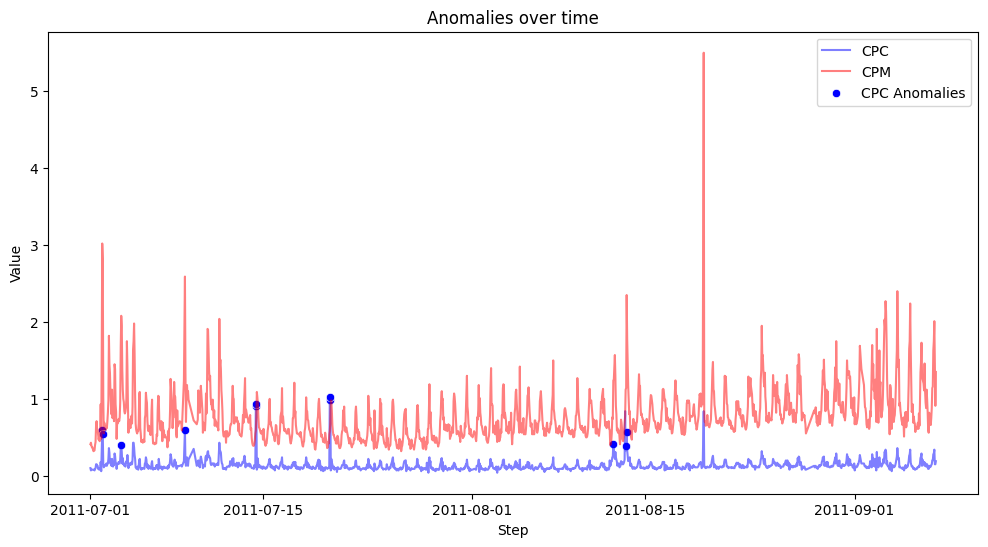
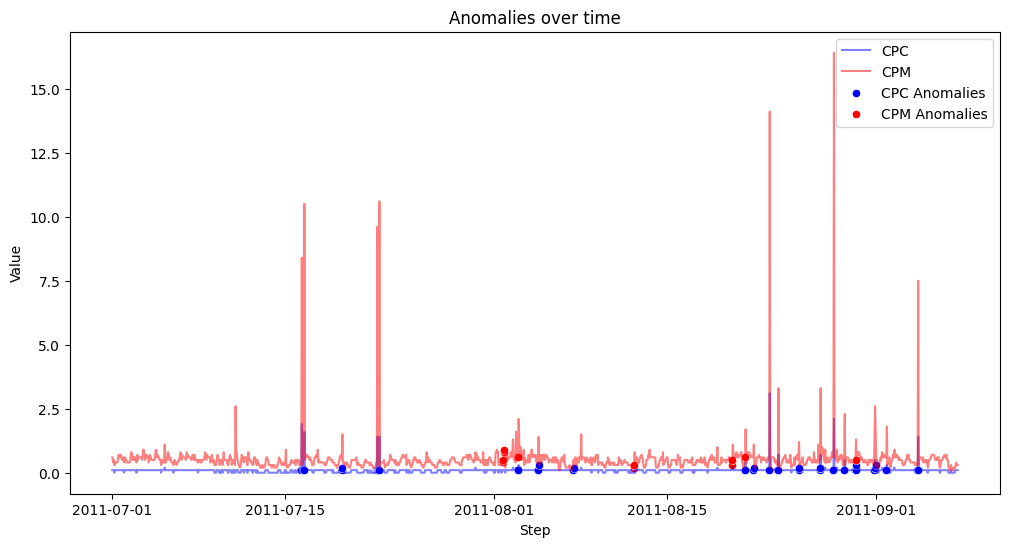
[update] first-order markov chain with plot in readme

diff --git a/anomaly-detection-markov/Scripts/markov-chain-ad-data.py b/anomaly-detection-markov/Scripts/markov-chain-ad-data.py
@@ -1,3 +1,4 @@
+## This script implements a Markov Chain model to detect anomalies in CPC and CPM data from ad exchanges.
 import pandas as pd
 import numpy as np
 from collections import defaultdict
@@ -5,9 +6,8 @@ from itertools import pairwise
 import matplotlib.pyplot as plt
 import seaborn as sns
 
-
+# pre-processes two CSV files containing timestamped data for compatibility with markov models.
 def df_preprocessing(path_a, path_b, quantize: bool = False):
-    #read the dataframes
     dfa = pd.read_csv(path_a)
     dfb = pd.read_csv(path_b)
     
@@ -23,12 +23,12 @@ def df_preprocessing(path_a, path_b, quantize: bool = False):
     df['step'] = (df['timestamp'] - df['timestamp'].min()).dt.total_seconds() / 3600
     if quantize:
         # Quantize the 'cpc' and 'cpm' columns to 3 decimal places
-        df['cpc'] = df['cpc'].round(2)
-        df['cpm'] = df['cpm'].round(2)
+        df['cpc'] = df['cpc'].round(1)
+        df['cpm'] = df['cpm'].round(1)
     
     return df
 
-
+# counts transitions between sequential states in a specified column of a DataFrame.
 def transition_counter(df, col: str, transition_counts = None):
     if transition_counts is None:
         transition_counts = defaultdict(lambda: defaultdict(int))
@@ -38,52 +38,69 @@ def transition_counter(df, col: str, transition_counts = None):
         if curr['step'] + 1 != next['step']:
             continue
 
-        from_state = curr[col]
-        to_state = next[col]
-        transition_counts[from_state][to_state] += 1
+        prev_state = curr[col]
+        curr_state = next[col]
+        transition_counts[prev_state][curr_state] += 1
         
     return transition_counts 
     
     
-# Convert counts to probabilities
-def estimate_markov_probs(transition_counts):
+# Convert transition counts to transition probabilities matrix.
+def transition_probs_calculator(transition_counts):
     transition_probs = defaultdict(lambda: defaultdict(float))
 
 
-    for curr_state, next_states in transition_counts.items():
+    for prev_state, next_states in transition_counts.items():
         total = sum(next_states.values())
-        for next_state, count in next_states.items():
-            transition_probs[curr_state][next_state] = count / total if total > 0 else 0
+        for curr_state, count in next_states.items():
+            transition_probs[prev_state][curr_state] = count / total if total > 0 else 0
             
     return transition_probs
 
+def markov_anomaly_scorer(df, transition_probs, col: str, window=2, epsilon=1e-10):
+    """ Scores anomalies in a DataFrame based on a Markov Chain model with context window.
 
-def df_probs(df, transition_probs, col: str, threshold=0):
+    Args:
+        df (dataframe): dataframe containing the states of a {col} to score
+        transition_probs (defaultdict): transition probabilities for the Markov Chain
+        col (str): column name to score, e.g. 'cpc' or 'cpm'
+        window (int; min:2, max:len(df)): no of states to consider anomaly scoring. Defaults to 2.
+        epsilon (float, ): Placeholder for unseen transition. Defaults to 1e-10.
+
+    Returns:
+        df: modified dataframe with scores for {col} states
+    """
     df = df.copy()
-    df['anomaly'] = False
-    
-    for (id, curr), (_, next) in pairwise(df.iterrows()):
-        if curr['step'] == next['step']:
-            df.at[id, f'{col}_anomaly'] = True
-        if curr['step'] + 1 != next['step']:
-            continue
+    df[f'{col}_score'] = 0.0
+
+    for i in range(window, df.shape[0]):
+        score = 0
         
-        prob = transition_probs[curr[col]][next[col]]
-        df.at[id, f'prob_{col}'] = prob
-        # df.at[id, f'log_prob_{col}'] = np.log(prob)
-        
-        if prob < threshold:
-            df.at[id, f'{col}_anomaly'] = True
-        
+        all_states = df.iloc[i - window:i][col].values
+        if len(all_states) < 2: continue
+        for from_state, to_state in pairwise(all_states):
+            try:
+                prob = transition_probs[from_state][to_state]
+                score += np.log(prob if prob > 0 else epsilon)
+            except KeyError as e:
+                print('error')
+                print(f"KeyError: {e} for transition {from_state} to_state {next}")
+                score += np.log(epsilon)  # assign minimal likelihood to unseen transition
+
+        ## df.iloc[i, df.columns.get_loc(f'{col}_score')] = score # deprecated
+        df.at[i-window, f'{col}_score'] = np.abs(score)
+
     return df
 
-def anomaly_detection(unknown_df, normal_df):
-    threshold_cpc = normal_df['prob_cpc'].max()
-    threshold_cpm = normal_df['prob_cpm'].max()
+
+def markov_anomaly_detector(unknown_df, normal_df, threshold_cpc=0.01, threshold_cpm=0.01):
+    ## Detects anomalies in CPC and CPM data using a Markov Chain model.
+    # threshold_cpc = normal_df['prob_cpc'].max()
+    # threshold_cpm = normal_df['prob_cpm'].max()
     
     df = unknown_df.copy()
-    df['cpc_anomaly'] = df['prob_cpc'] > threshold_cpc
-    df['cpm_anomaly'] = df['prob_cpm'] > threshold_cpm
+    df['cpc_anomaly'] = df['cpc_score'] > threshold_cpc
+    df['cpm_anomaly'] = df['cpm_score'] > threshold_cpm
     
     return df
 
@@ -93,7 +110,7 @@ def plot_anomalies(df):
     sns.lineplot(x='timestamp', y='cpm', data=df, color='red', label='CPM', alpha=0.5)
     
     sns.scatterplot(data=df[df['cpc_anomaly']], x='timestamp', y='cpc', color='blue', label='CPC Anomalies', marker='o')
-    sns.scatterplot(data=df[df['cpm_anomaly']], x='timestamp', y='cpm', color='red', label='CPM Anomalies', marker='*')
+    sns.scatterplot(data=df[df['cpm_anomaly']], x='timestamp', y='cpm', color='red', label='CPM Anomalies', marker='o')
     
     plt.title(f'Anomalies over time')
     plt.xlabel('Step')
@@ -101,13 +118,14 @@ def plot_anomalies(df):
     plt.legend()
     plt.show()
 
+
 if __name__ == "__main__": 
     
     dfs = {}
     cpc_transition_counts = defaultdict(lambda: defaultdict(int))
     cpm_transition_counts = defaultdict(lambda: defaultdict(int))
     
-    
+    ## Load and preprocess all exchange data, since in real-world, we would not know which exchange has anomalies beforehand.
     for i in range(2, 5):
         path_cpc = f'..\\Dataset\\realAdExchange\\exchange-{i}_cpc_results.csv'
         path_cpm = f'..\\Dataset\\realAdExchange\\exchange-{i}_cpm_results.csv'
@@ -116,8 +134,8 @@ if __name__ == "__main__":
         cpc_transition_counts = transition_counter(df, 'cpc', cpc_transition_counts)
         cpm_transition_counts = transition_counter(df, 'cpm', cpm_transition_counts)
     
-    cpc_transition_matrix = estimate_markov_probs(cpc_transition_counts)
-    cpm_transition_matrix = estimate_markov_probs(cpm_transition_counts)
+    cpc_transition_matrix = transition_probs_calculator(cpc_transition_counts)
+    cpm_transition_matrix = transition_probs_calculator(cpm_transition_counts)
 
     markov_model = {
         'cpc': cpc_transition_matrix,
@@ -125,11 +143,17 @@ if __name__ == "__main__":
     }
     
     for i in range(2, 5):
-        dfs[f'df{i}'] = df_probs(dfs[f'df{i}'], cpc_transition_matrix, 'cpc')
-        dfs[f'df{i}'] = df_probs(dfs[f'df{i}'], cpm_transition_matrix, 'cpm')
-        
-    dfs['df3'] = anomaly_detection(dfs['df3'], dfs['df2'])
-    dfs['df4'] = anomaly_detection(dfs['df4'], dfs['df2'])
+        dfs[f'df{i}'] = markov_anomaly_scorer(dfs[f'df{i}'], cpc_transition_matrix, 'cpc', window=3)
+        dfs[f'df{i}'] = markov_anomaly_scorer(dfs[f'df{i}'], cpm_transition_matrix, 'cpm', window=5)
+    
+    # df2 appears as the normal data, thereby all points in that range are considered as normal.    
+    dfs['df3'] = markov_anomaly_detector(dfs['df3'], dfs['df2'], 
+                                         threshold_cpc = dfs['df2']['cpc_score'].max(), 
+                                         threshold_cpm = dfs['df2']['cpm_score'].max())
+    dfs['df4'] = markov_anomaly_detector(dfs['df4'], dfs['df2'], 
+                                         threshold_cpc = dfs['df2']['cpc_score'].max(), 
+                                         threshold_cpm = dfs['df2']['cpm_score'].max())
     
     plot_anomalies(dfs['df3'])
     plot_anomalies(dfs['df4'])
+    

diff --git a/anomaly-detection-markov/README.MD b/anomaly-detection-markov/README.MD
@@ -6,6 +6,7 @@ Here is the work, done so far:
 1. [markov chain-dummy data.py](/Scripts/markov%20chain-dummy%20data.py): Made a first order markov chain model on by-hand curated dummy data.
 2. [explore-AdExchange.ipynb](/Notebooks/explore-AdExchange.ipynb): Performed basic exploration on ad-exchange record.
 3. [makrov-chain-ad-data.py](/Scripts/markov-chain-ad-data.py): conducted first order markkov chain on ad records with timestamps at a steps of 1 minute. 
+![alt text](image.png) ![alt text](image-1.png)
 
-![alt text](image.png)
-![alt text](image-1.png)
+    The anomaly detection isn’t flagging high peaks (like spikes in CPM) as anomalies — which seems unintuitive. The markov-chain focus on sequence probability, not the magnitude of values. So even extreme jumps may go unnoticed if similar transitions exist in training data. Considering, all data was used for training, this is an expected behavior.
+